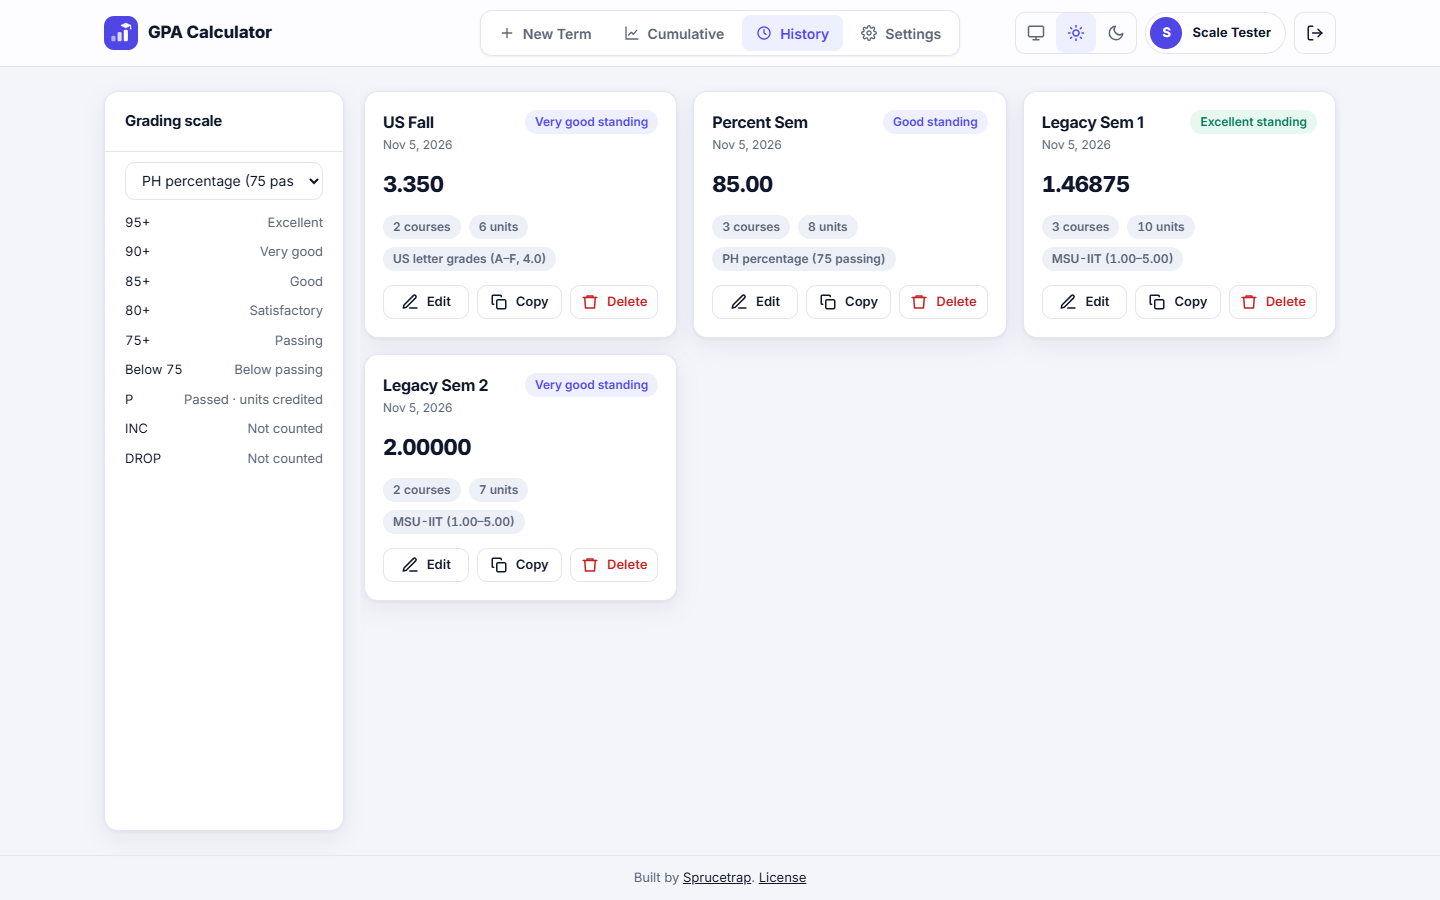
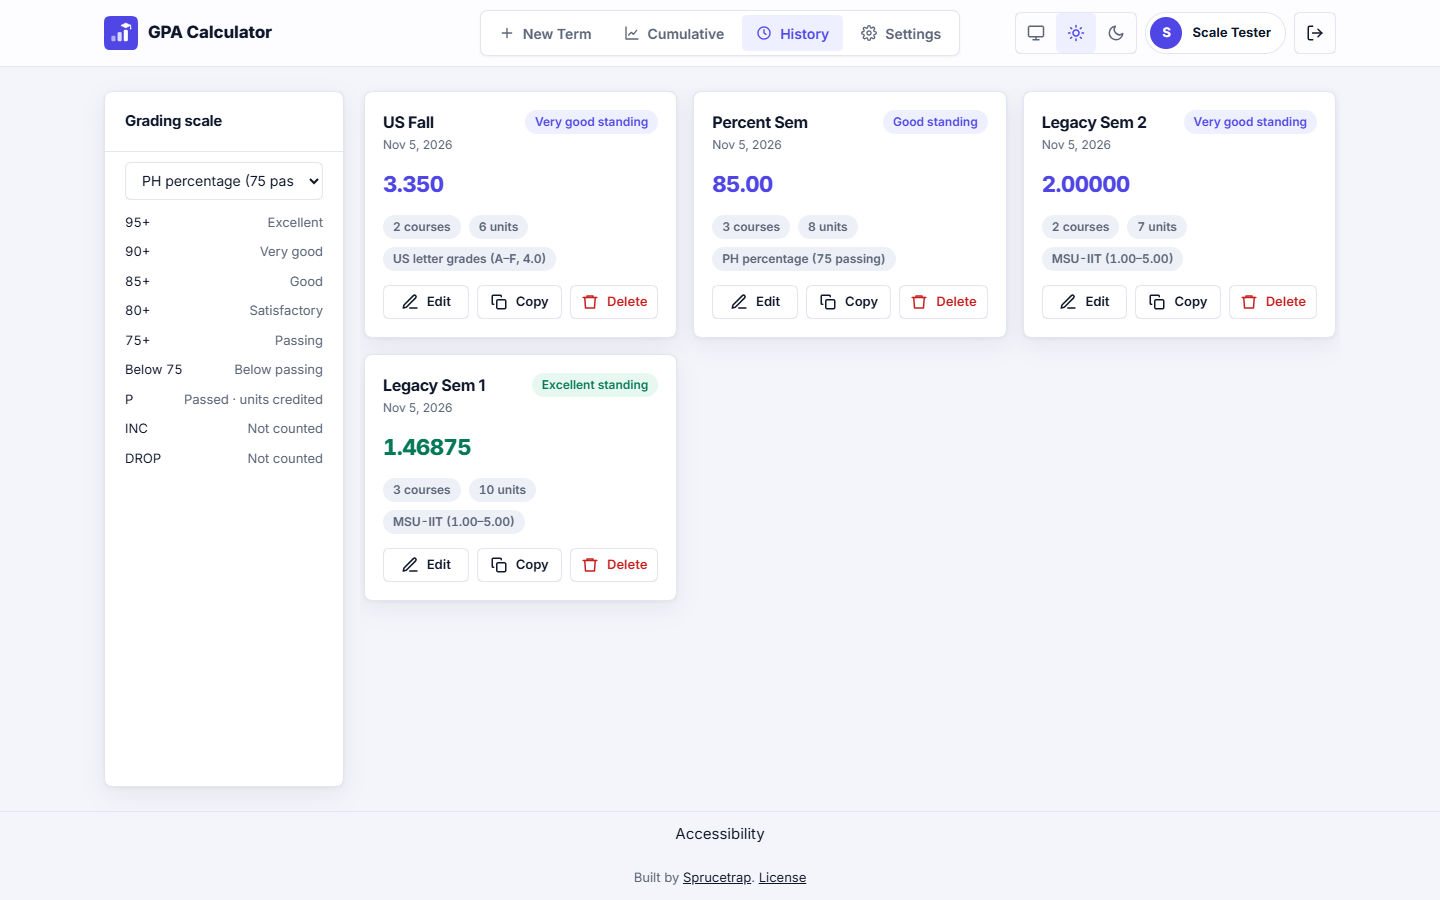
docs: document the accessibility checks and the new page
- Add an accessibility checks section with the Lighthouse and axe commands, targets and the latest results
- Note the band-coloured GPAs and the statement page in the README features
- Retake the History screenshot with the band colours and footer link
- Map Security item 30 in docs/security.md and list /accessibility in docs/seo.md

diff --git a/README.md b/README.md
@@ -39,7 +39,7 @@ GPA Calculator lets students enter their grades each term, see their GPA update 
 </tr>
 <tr>
 <td width="50%" align="center"><b>Cumulative GPA</b><br><a href="docs/images/cumulative.png"><img src="docs/images/cumulative.png" width="100%" alt="Cumulative view with saved terms ticked and the combined CGPA"></a></td>
-<td width="50%" align="center"><b>History</b><br><a href="docs/images/history.png"><img src="docs/images/history.png" width="100%" alt="History view with term cards and the grading scale on the left"></a></td>
+<td width="50%" align="center"><b>History</b><br><a href="docs/images/history.png"><img src="docs/images/history.png" width="100%" alt="History view with term cards, each GPA coloured by its grade band, and the grading scale on the left"></a></td>
 </tr>
 <tr>
 <td width="50%" align="center"><b>Settings</b><br><a href="docs/images/settings.png"><img src="docs/images/settings.png" width="100%" alt="Settings view with account details and the change-password form"></a></td>
@@ -60,9 +60,9 @@ GPA Calculator lets students enter their grades each term, see their GPA update 
 - Paste a semester straight from MyIIT to fill in the term and courses.
 - Cumulative GPA from any saved terms plus extra subjects, saved as named records.
 - Five grading systems, with a default per account and a choice per term ([details](docs/grading-systems.md)).
-- History of saved terms with academic standing, edit, copy and delete.
+- History of saved terms with academic standing, each GPA coloured by its grade band, plus edit, copy and delete.
 - Works on phones, follows the device theme or a fixed light or dark one, and installs to your home screen.
-- Accessible: keyboard friendly and checked against WCAG 2.2 AA.
+- Accessible: built to WCAG 2.2 AA, with Lighthouse Accessibility 100 and no axe violations on every page ([statement](public/accessibility.html), [how it is checked](docs/development.md#accessibility-checks)).
 
 ## Tech Stack
 

diff --git a/docs/development.md b/docs/development.md
@@ -80,8 +80,21 @@ Run these with `npm run dev` before each commit that changes the UI:
 7. **Settings:** your username and email show; a wrong current password, a mismatched confirmation and a short password are rejected; a valid change shows a success toast, the new password signs in, and another browser's session is signed out.
 8. **Phone (375 px):** the bottom tab bar reaches every section, nothing hides behind it, no horizontal scroll.
 9. **Themes:** light and dark both look right, including scrollbars and dropdowns.
-10. **Keyboard:** Tab from the top shows "Skip to content"; every control has a visible focus ring.
-11. **SEO files:** `/robots.txt`, `/sitemap.xml` and `/llms.txt` load and use your `APP_URL`.
+10. **Keyboard:** Tab from the top shows "Skip to content" on every page; every control has a visible focus ring, and a focused field is never hidden under the sticky header or the phone tab bar.
+11. **SEO files:** `/robots.txt`, `/sitemap.xml` and `/llms.txt` load, use your `APP_URL` and list `/accessibility`.
+
+## Accessibility checks
+
+The goal is WCAG 2.2 AA. With the dev server running, check every public page (`/login`, `/accessibility`, `/404`, `/setup`):
+
+```bash
+npx lighthouse http://localhost:3000/login --only-categories=accessibility --chrome-flags="--headless=new"
+npx @axe-core/cli http://localhost:3000/login --tags wcag2a,wcag2aa,wcag21a,wcag21aa,wcag22aa,best-practice
+```
+
+Public pages need Lighthouse Accessibility 100 and zero axe violations; the dashboard needs 95 or more (pass the session cookie with `--extra-headers`). Before each release, go through the main flow with the keyboard alone, then with NVDA, and update the date on the [accessibility statement](../public/accessibility.html).
+
+Last run on 17 November 2026: Lighthouse 100 on `/login`, `/accessibility`, `/404`, `/setup` and `/dashboard` (mobile and desktop), and 0 axe violations on the public pages.
 
 ## Code notes
 

diff --git a/docs/security.md b/docs/security.md
@@ -33,6 +33,7 @@ How the app covers each item of the security checklist. Numbers match the checkl
 | 27 | Secret scanning | CI runs gitleaks over the full history. A secret that was ever committed gets rotated, not just deleted. |
 | 28 | Least privilege, minimal data | The app's MySQL user needs only `SELECT, INSERT, UPDATE, DELETE, CREATE` ([setup](setup.md#2-create-the-database)). Stored per user: name, email, username, password hash, OAuth ids and grades. |
 | 29 | This file | Linked from the README. |
+| 30 | Modern Web Guidance security guides | Checked before building sign-in or rendering user HTML. The app renders no user HTML: user text goes through `escapeHtml` or `textContent`. Passkeys are not offered yet. |
 
 API responses are `Cache-Control: no-store`, so per-user data is never stored by browsers or the CDN. Only `public/` is served statically; `.env`, sources and `node_modules` return 404. Vercel Web Analytics is cookie-free and served from the app's own domain.
 

diff --git a/docs/seo.md b/docs/seo.md
@@ -1,6 +1,6 @@
 # SEO
 
-Only the sign-in page (`/login`) is indexed; the dashboard and setup pages are private.
+Only the sign-in page (`/login`) and the accessibility statement (`/accessibility`) are indexed; the dashboard and setup pages are private.
 
 - `robots.txt` and `sitemap.xml` are built from `APP_URL`, so set it to your public domain in production.
 - The sign-in page has an absolute canonical tag, a unique title and meta description, JSON-LD, and Open Graph and Twitter share cards with a 1200×630 preview image (`public/og-image.png`).
